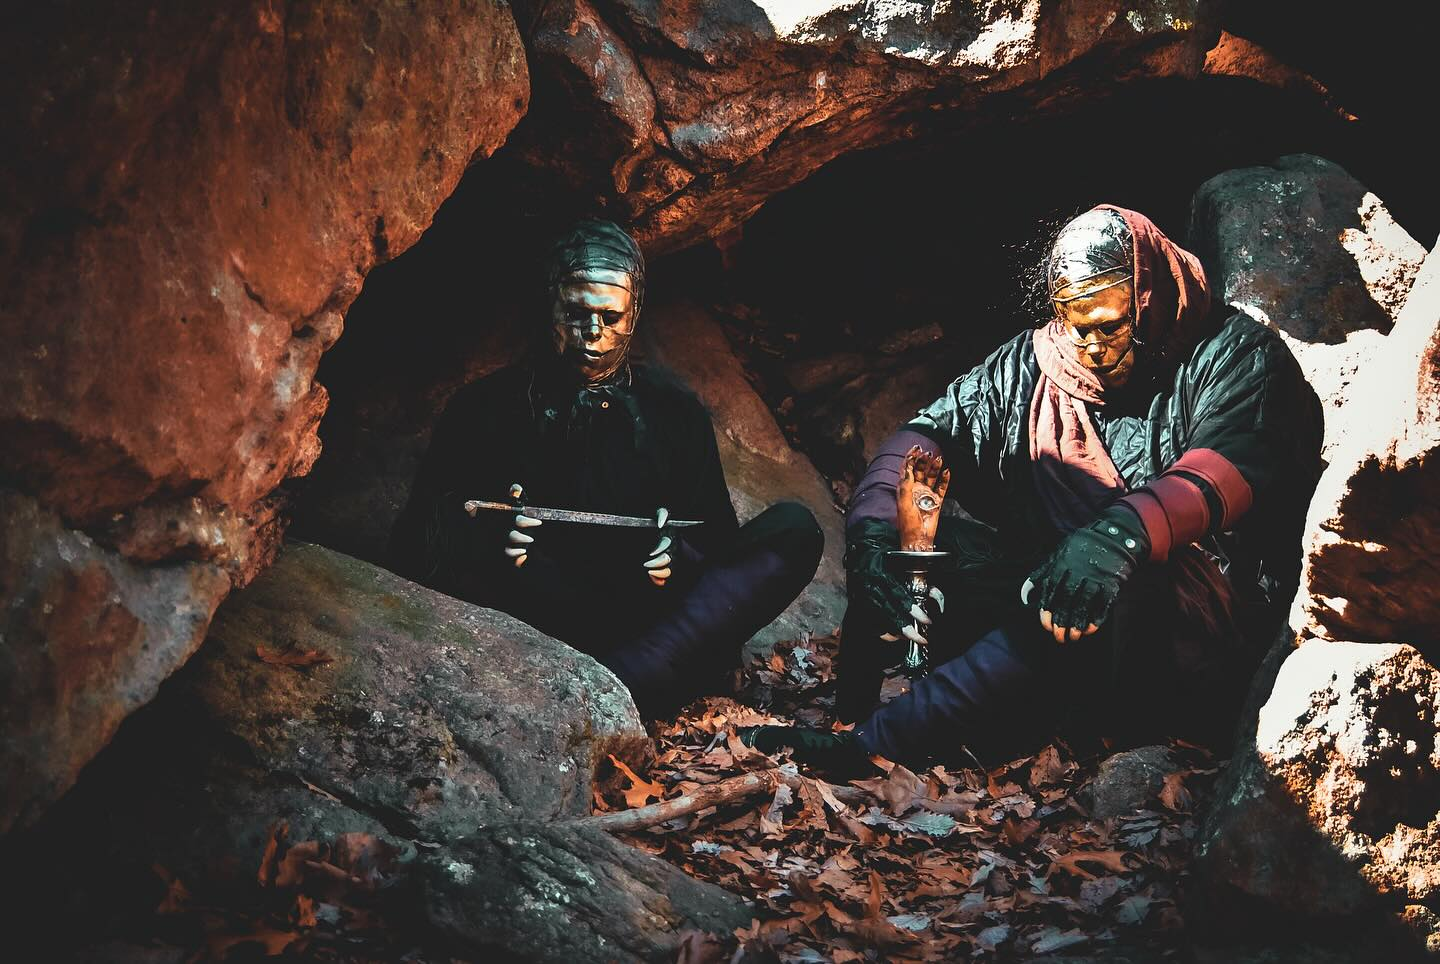
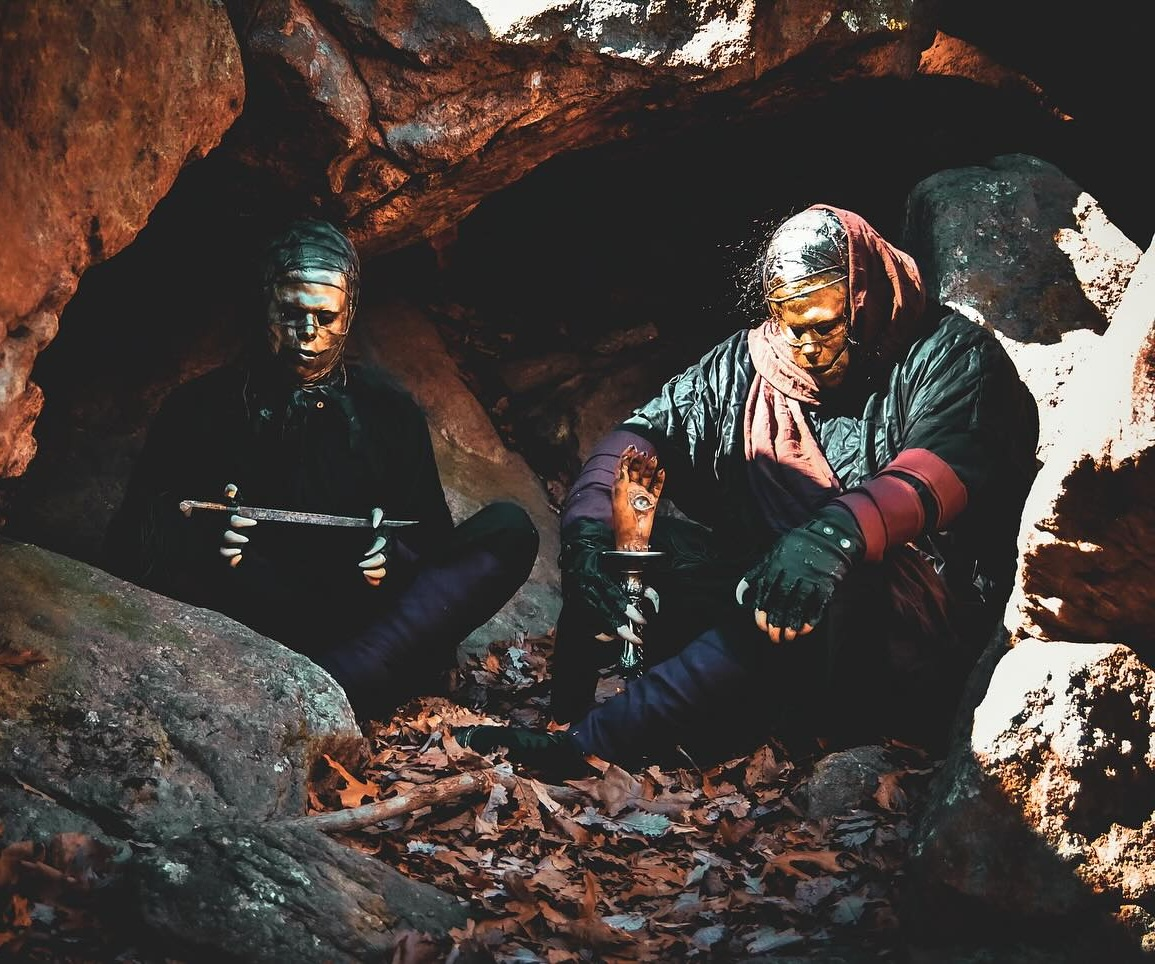
Home page changes.

diff --git a/src/data/reviews.js b/src/data/reviews.js
@@ -1,21 +1,13 @@
 export const reviews = [
+ 
   {
-    quote: "Veilburner are a force to be reckoned with, and VLBRNR is yet another strong exhibit of proof to that end.",
-    fullText: "Sick and twisted are Veilburner's bread and butter, and off‑kilter and occasionally dissonant blackened death metal is their vessel. Mephisto Deleterio conjures nothing short of excellence in his instrumental performances, and nothing about that excellence suffered in the year spanning between Lurkers and VLBRNR. Special mention goes to Mephisto's drumming, which constitutes one of the finest kit performances I've heard all year. Meanwhile, Chrisom Infernium continuously improves as a vocalist, a clear development of skill and versatility evident in his repulsive retches and gutturals.",
-    publication: "Angry Metal Guy",
-    date: "December 3, 2022",
-    album: "VLBRNR",
+    quote: "The Duality of Decapitation and Wisdom turned into one of the best Dissonant Metal pieces on our roster.",
+    fullText: "Veilburner are master storytellers, delivering grotesque yet stellar riffs and solos in a finely tuned production.",
+    publication: "Rock Music Raider",
+    date: "November 24, 2024",
+    album: "The Duality of Decapitation and Wisdom",
     rating: null,
-    link: "https://www.angrymetalguy.com/veilburner-vlbrnr-review/"
-  },
-  {
-    quote: "Lurkers is that rare record that doesn't get weaker when it leans on effects over technique, using the guitar as a metamorphic synth unit.",
-    fullText: "Some of these riffs seem to bulge in ways I've heard nowhere else (at least not so pervasively), using gradual bends, tortured wah‑wah, and spasms of the tremolo bar to swell into something uncomfortably 3‑dimensional. … Veilburner finds extremity not necessarily in speed, heaviness, or overwrought chaos, but in the twisting of death and black metal flesh into something darkly parodic. Evocative of a familiar being, but exquisitely peeled apart and rewired into an uncanny engine of perverted bliss.",
-    publication: "Toilet ov Hell",
-    date: "September 10, 2021",
-    album: "Lurkers in the Capsule of Skull",
-    rating: null,
-    link: "https://toiletovhell.com/review-veilburner-lurkers-in-the-capsule-of-skull/"
+    link: "https://www.rockmusicraider.com/veilburner-the-duality-of-decapitation-and-wisdom-review/"
   },
   {
     quote: "The twisted compositions only get better as the album is played more and more. This is a trip down a rabbit hole that I'll happily get lost in.",
@@ -25,6 +17,25 @@ export const reviews = [
     album: "The Duality of Decapitation and Wisdom",
     rating: null,
     link: "https://metal-temple.com/review/veilburner-the-duality-of-decapitation-and-wisdom/"
+  },
+ 
+  {
+    quote: "Veilburner's eclecticism isn't scattershot. They do have their anchor-points in death and black metal.",
+    fullText: "Their influences break the surface in a dizzying and dazzling way without losing their footing in the genre.",
+    publication: "No Clean Singing",
+    date: "October 29, 2024",
+    album: "The Duality of Decapitation and Wisdom",
+    rating: null,
+    link: "https://www.nocleansinging.com/2024/10/29/an-ncs-premiere-veilburner-woe-ye-who-build-these-crosses-are-those-who-will-serve-us-death/"
+  },
+  {
+    quote: "Veilburner are a force to be reckoned with, and VLBRNR is yet another strong exhibit of proof to that end.",
+    fullText: "Sick and twisted are Veilburner's bread and butter, and off‑kilter and occasionally dissonant blackened death metal is their vessel. Mephisto Deleterio conjures nothing short of excellence in his instrumental performances, and nothing about that excellence suffered in the year spanning between Lurkers and VLBRNR. Special mention goes to Mephisto's drumming, which constitutes one of the finest kit performances I've heard all year. Meanwhile, Chrisom Infernium continuously improves as a vocalist, a clear development of skill and versatility evident in his repulsive retches and gutturals.",
+    publication: "Angry Metal Guy",
+    date: "December 3, 2022",
+    album: "VLBRNR",
+    rating: null,
+    link: "https://www.angrymetalguy.com/veilburner-vlbrnr-review/"
   },
   {
     quote: "With VLBRNR, Veilburner shows us that, six albums deep, they can still pull several infernal tricks from up their sleeves.",
@@ -36,15 +47,6 @@ export const reviews = [
     link: "https://www.nocleansinging.com/2022/09/30/veilburner-a-review-of-vlbrnr-and-the-premiere-of-repulsed-by-the-light/"
   },
   {
-    quote: "Veilburner's eclecticism isn't scattershot. They do have their anchor-points in death and black metal.",
-    fullText: "Their influences break the surface in a dizzying and dazzling way without losing their footing in the genre.",
-    publication: "No Clean Singing",
-    date: "October 29, 2024",
-    album: "The Duality of Decapitation and Wisdom",
-    rating: null,
-    link: "https://www.nocleansinging.com/2024/10/29/an-ncs-premiere-veilburner-woe-ye-who-build-these-crosses-are-those-who-will-serve-us-death/"
-  },
-  {
     quote: "Veilburner's latest offering is a complex and challenging listen, but one that rewards repeated plays.",
     fullText: "The album showcases the duo's ability to blend dissonant melodies with aggressive rhythms, creating a unique and immersive listening experience.",
     publication: "Metal Epidemic",
@@ -52,15 +54,6 @@ export const reviews = [
     album: "VLBRNR",
     rating: null,
     link: "https://metalepidemic.com/veilburner-vlbrnr-review/"
-  },
-  {
-    quote: "Veilburner continues to push the boundaries of extreme metal with their latest release.",
-    fullText: "Lurkers in the Capsule of Skull is a testament to the band's commitment to innovation and their refusal to conform to genre norms.",
-    publication: "Metal Rules",
-    date: "September 2021",
-    album: "Lurkers in the Capsule of Skull",
-    rating: null,
-    link: "https://www.metal-rules.com/2021/09/25/veilburner-lurkers-in-the-capsule-of-skull/"
   },
   {
     quote: "Veilburner's VLBRNR is a chaotic yet cohesive album that showcases the band's evolution.",
@@ -72,13 +65,22 @@ export const reviews = [
     link: "https://www.teethofthedivine.com/reviews/veilburner-vlbrnr/"
   },
   {
-    quote: "The Duality of Decapitation and Wisdom turned into one of the best Dissonant Metal pieces on our roster.",
-    fullText: "Veilburner are master storytellers, delivering grotesque yet stellar riffs and solos in a finely tuned production.",
-    publication: "Rock Music Raider",
-    date: "November 24, 2024",
-    album: "The Duality of Decapitation and Wisdom",
+    quote: "Lurkers is that rare record that doesn't get weaker when it leans on effects over technique, using the guitar as a metamorphic synth unit.",
+    fullText: "Some of these riffs seem to bulge in ways I've heard nowhere else (at least not so pervasively), using gradual bends, tortured wah‑wah, and spasms of the tremolo bar to swell into something uncomfortably 3‑dimensional. … Veilburner finds extremity not necessarily in speed, heaviness, or overwrought chaos, but in the twisting of death and black metal flesh into something darkly parodic. Evocative of a familiar being, but exquisitely peeled apart and rewired into an uncanny engine of perverted bliss.",
+    publication: "Toilet ov Hell",
+    date: "September 10, 2021",
+    album: "Lurkers in the Capsule of Skull",
     rating: null,
-    link: "https://www.rockmusicraider.com/veilburner-the-duality-of-decapitation-and-wisdom-review/"
+    link: "https://toiletovhell.com/review-veilburner-lurkers-in-the-capsule-of-skull/"
+  },
+  {
+    quote: "Veilburner continues to push the boundaries of extreme metal with their latest release.",
+    fullText: "Lurkers in the Capsule of Skull is a testament to the band's commitment to innovation and their refusal to conform to genre norms.",
+    publication: "Metal Rules",
+    date: "September 2021",
+    album: "Lurkers in the Capsule of Skull",
+    rating: null,
+    link: "https://www.metal-rules.com/2021/09/25/veilburner-lurkers-in-the-capsule-of-skull/"
   },
   {
     quote: "It is beauty and ugliness, heaviness and levity, and it will absolutely set your mind ablaze.",

diff --git a/src/data/interviews-written.js b/src/data/interviews-written.js
@@ -1,5 +1,12 @@
 export const interviewsWritten = [
   {
+    quote: "Extreme metal duo Veilburner take off their masks to discuss their seventh album The Duality of Decapitation and Wisdom.",
+    fullText: "In this episode, Mephisto Deleterio and Chrisom Infernium delve into the creation of their latest album, sharing insights into their songwriting process, thematic explorations, and the evolution of their sound.",
+    publication: "Tom Osman Substack",
+    date: "October 2024",
+    link: "https://tomosman.substack.com/p/episode-42-veilburner"
+  },
+  {
     quote: "Mephisto Deleterio and Chrisom Infernium of Veilburner join me this week for their first ever long-form podcast interview.",
     fullText: "We discuss their upcoming record, why they don't play live, their approach to songwriting, Mephisto's collection of oddities and more.",
     publication: "Into the Necrosphere",
@@ -12,12 +19,5 @@ export const interviewsWritten = [
     publication: "Blessed Altar Zine",
     date: "September 6, 2021",
     link: "https://blessedaltarzine.com/tag/veilburner/"
-  },
-  {
-    quote: "Extreme metal duo Veilburner take off their masks to discuss their seventh album The Duality of Decapitation and Wisdom.",
-    fullText: "In this episode, Mephisto Deleterio and Chrisom Infernium delve into the creation of their latest album, sharing insights into their songwriting process, thematic explorations, and the evolution of their sound.",
-    publication: "Tom Osman Substack",
-    date: "October 2024",
-    link: "https://tomosman.substack.com/p/episode-42-veilburner"
   }
 ];

diff --git a/src/data/interviews.js b/src/data/interviews.js
@@ -5,6 +5,11 @@ export const interviews = [
     link: "https://www.youtube.com/watch?v=xXlgGIjj1As"
   },
   {
+    title: "Veilburner: Mephisto Deleterio & Chrisom Infernium : The Duality of Veilburner",
+    videoId: "_DjeLiSJ7_k",
+    link: "https://www.youtube.com/watch?v=_DjeLiSJ7_k"
+  },
+  {
     title: "VEILBURNER - Mephisto Deleterio & Chrisum Infernium | Into The Necrosphere Podcast #253",
     videoId: "5LtBcCJZWlI",
     link: "https://www.youtube.com/watch?v=5LtBcCJZWlI"
@@ -13,10 +18,5 @@ export const interviews = [
     title: "VEILBURNER - Mephisto Deleterio & Chrisum Infernium | Into The Necrosphere Podcast #156",
     videoId: "HZSJUQ6p4xY",
     link: "https://www.youtube.com/watch?v=HZSJUQ6p4xY"
-  },
-  {
-    title: "Veilburner: Mephisto Deleterio & Chrisom Infernium : The Duality of Veilburner",
-    videoId: "_DjeLiSJ7_k",
-    link: "https://www.youtube.com/watch?v=_DjeLiSJ7_k"
   }
 ];

diff --git a/src/data/media.js b/src/data/media.js
@@ -1,6 +1,11 @@
 export const media = {
   videoReviews: [
     {
+      title: "Veilburner \"The Duality of Decapitation & Wisdom\" Review (MUSICAL INSANITY THAT WILL TAKE YOUR HEAD)",
+      videoId: "rLiCCeNS4h4",
+      link: "https://www.youtube.com/watch?v=rLiCCeNS4h4"
+    },
+    {
       title: "THIS IS TOUGH TO DESCRIBE // VEILBURNER - III Visions of Hex-Shaped Hiss, Behead The Howling Spirit // Composer Reaction",
       videoId: "kclJ_gbsCs4",
       link: "https://www.youtube.com/watch?v=kclJ_gbsCs4&t=398s"
@@ -9,11 +14,6 @@ export const media = {
       title: "Veilburner VLBRNR Review",
       videoId: "vZZbGh4nlDY",
       link: "https://www.youtube.com/watch?v=vZZbGh4nlDY"
-    },
-    {
-      title: "Veilburner \"The Duality of Decapitation & Wisdom\" Review (MUSICAL INSANITY THAT WILL TAKE YOUR HEAD)",
-      videoId: "rLiCCeNS4h4",
-      link: "https://www.youtube.com/watch?v=rLiCCeNS4h4"
     },
     {
       title: "Veilburner \"Lurkers in the Capsule of Skull\" Review",

diff --git a/README.md b/README.md
@@ -140,11 +140,3 @@ https://avenoctum.com/2014/12/15/veilburner-the-three-lightbearers-obscure-divin
 
 
 
-
-==========
-  
-"Answers:"
-*1. Yes, the album overlay image size should be 20vw on mobile.
-*2. I think reducing the size from 0.9rem to 0.675rem might work (I'm sure clamp would be best, but I'm just looking for a quick fix).
-*3. I fixed this issue.
-*4. I fixed this issue.